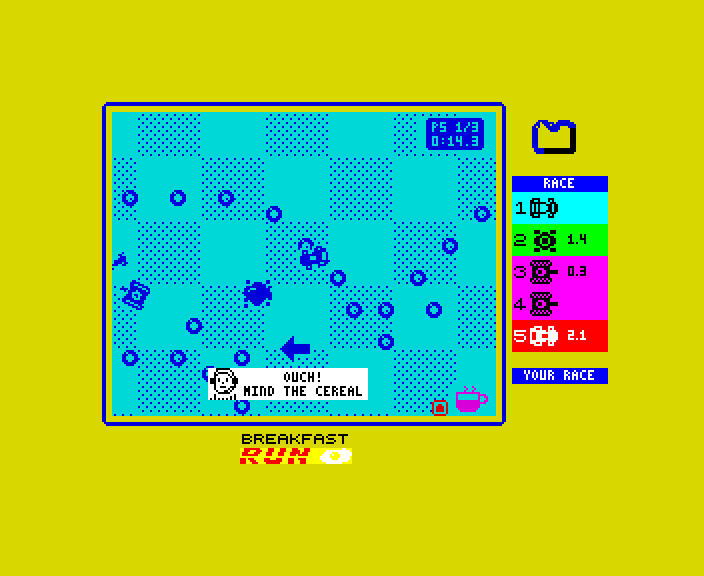
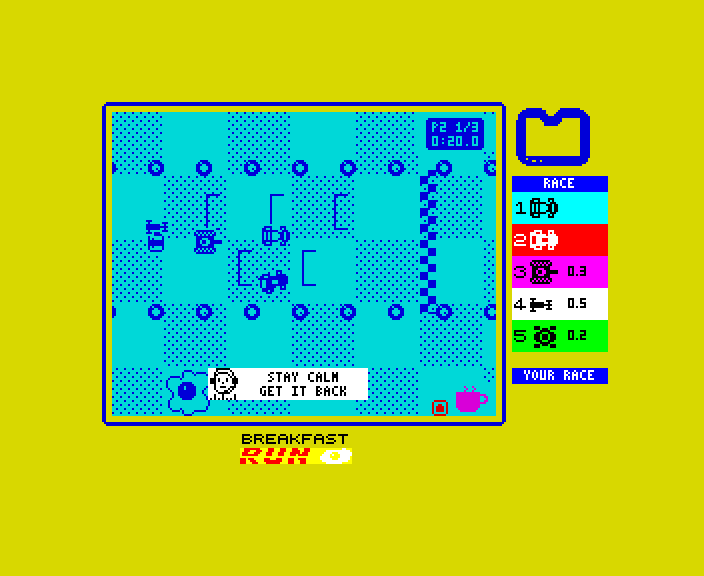
Breakfast fast tapes: the panel's map 40 wide (was 24)
Claude-Session: https://claude.ai/code/session_01476U86GiAC8cKs57wAJvc3

diff --git a/PROJECT-LOG.md b/PROJECT-LOG.md
@@ -3747,3 +3747,10 @@ NOT DONE / NOT VERIFIED: nobody has driven it; fun and fairness are counted, not
 - Grant: "There is some flickering of the cars, especially when they contact eachother". The hurt computer car's flicker
   (and the NOS crash's, the same) is left out on the breakfast tapes.
 - race_mode_test 12/12 on both fast tapes; plain tapes byte-identical. Not yet driven by Grant.
+
+## 2026-11-22 SAST - the panel's map bigger: 40 wide (cloud session, Claude)
+- Grant: "The map in the top right corner needs to be quite a big bigger". Both fast tapes now MAPW40=1 with MAPHUD: the
+  40 x 29 map (19/256, was 24 x 17 at 11/256) at columns 26-30, lines 6-34, above RACE; its ink (145 bytes) under 0x8000
+  (MAPDAT there when MAPHUD), copied to the screen as the 24-wide one was; colours over its 5 x 5 squares. Room on the
+  trial tape: cn_ohit/cno_q moved from cnos_low.asm to cnos.asm (program 11 bytes free, under 0x8000 27). Picture:
+  docs/design/map_on_panel.png.
